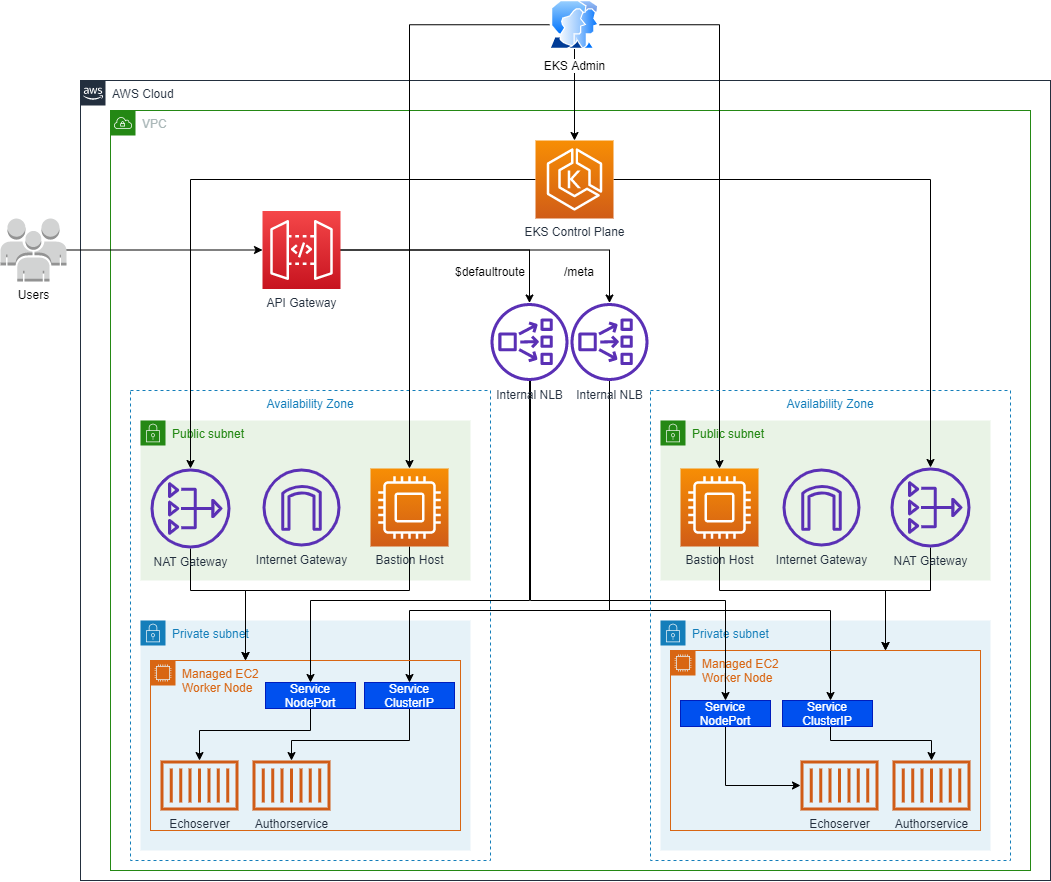
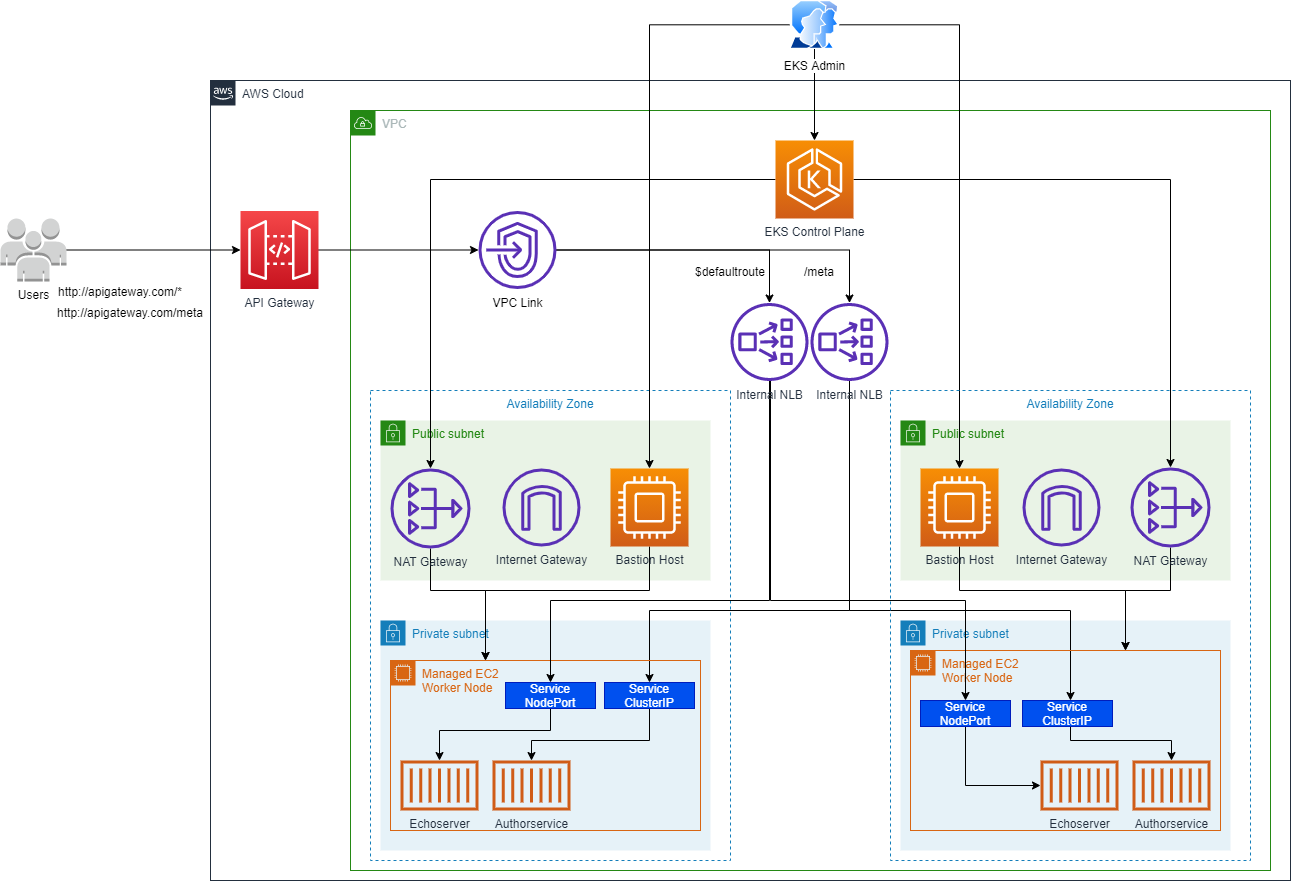
FIT: work complete

diff --git a/README.md b/README.md
@@ -242,7 +242,7 @@ Next the  following command can be run:
 ```sh
 kubectl apply -f vpclink.yml
 aws apigatewayv2 get-vpc-links --region $AGW_AWS_REGION
-export AGW_VPCLINK_SG = aws ec2 describe-security-groups --filter Name=vpc-id,Values=$AGW_VPC_ID Name=tag:Name,Values=VPCLink-SecurityGroup --query 'SecurityGroups[*].[GroupId]' --output text
+export AGW_VPCLINK_SG=$(aws ec2 describe-security-groups --filter Name=vpc-id,Values=$AGW_VPC_ID Name=tag:Name,Values=VPCLink-SecurityGroup --query 'SecurityGroups[*].[GroupId]' --output text)
 ```
 
 The following commands are very helpful in order to debug problems:
@@ -252,6 +252,47 @@ kubectl describe vpclinks.apigatewayv2.services.k8s.aws nlb-internal
 ```
 
 ## 13 - Create API Gateway API
+
+First, we need to run the aws commands in order to get the VPC Link ID and
+the load balancers uri:
+
+* VPC Link ID:
+
+```sh
+kubectl get vpclinks.apigatewayv2.services.k8s.aws nlb-internal -o jsonpath=\"{.status.vpcLinkID}\"
+```
+
+* Load Balancer URI authorservice:
+
+```sh
+aws elbv2 describe-listeners \
+    --load-balancer-arn $(aws elbv2 describe-load-balancers \
+    --region $AGW_AWS_REGION \
+    --query "LoadBalancers[?contains(DNSName, '$(kubectl get service authorservice \
+    -o jsonpath="{.status.loadBalancer.ingress[].hostname}")')].LoadBalancerArn" \
+    --output text) \
+    --region $AGW_AWS_REGION \
+    --query "Listeners[0].ListenerArn" \
+    --output text
+```
+
+* Load Balancer URI echoserver:
+
+```sh
+aws elbv2 describe-listeners \
+    --load-balancer-arn $(aws elbv2 describe-load-balancers \
+    --region $AGW_AWS_REGION \
+    --query "LoadBalancers[?contains(DNSName, '$(kubectl get service echoserver \
+    -o jsonpath="{.status.loadBalancer.ingress[].hostname}")')].LoadBalancerArn" \
+    --output text) \
+    --region $AGW_AWS_REGION \
+    --query "Listeners[0].ListenerArn" \
+    --output text
+```
+
+You can also find those commands at the apigateway/open-api.json file in order to know the correct place to substitute de id's obtained.
+
+After substituting the id's obtained in the preceeding commands, we need to run the apply:
 
 ```sh
 kubectl apply -f apigw-api.yml
@@ -319,19 +360,19 @@ kubectl delete services authorservice
 sleep 10
 aws ec2 delete-security-group --group-id $AGW_VPCLINK_SG --region $AGW_AWS_REGION 
 helm delete aws-load-balancer-controller --namespace kube-system
-helm delete ack-apigatewayv2-controller --namespace kube-system
+helm delete ack-apigatewayv2-controller --namespace ack-system
 for role in $(aws iam list-roles --query "Roles[?contains(RoleName, \
-  'eksctl-eks-ack-apigw-addon-iamserviceaccount')].RoleName" \
+  'eksctl-EksCluster01-addon-iamserviceaccount')].RoleName" \
   --output text)
 do (aws iam detach-role-policy --role-name $role --policy-arn $(aws iam list-attached-role-policies --role-name $role --query 'AttachedPolicies[0].PolicyArn' --output text))
 done
 for role in $(aws iam list-roles --query "Roles[?contains(RoleName, \
-  'eksctl-eks-ack-apigw-addon-iamserviceaccount')].RoleName" \
+  'eksctl-EksCluster01-apigw-addon-iamserviceaccount')].RoleName" \
   --output text)
 do (aws iam delete-role --role-name $role)
 done
 sleep 5
-aws iam delete-policy --policy-arn $(echo $(aws iam list-policies --query 'Policies[?PolicyName==`ACKIAMPolicy`].Arn' --output text))
-aws iam delete-policy --policy-arn $(echo $(aws iam list-policies --query 'Policies[?PolicyName==`AWSLoadBalancerControllerIAMPolicy-APIGWDEMO`].Arn' --output text))
 aws cloudformation delete-stack --stack-name stack-eks-load-balancer-controller
+aws iam delete-policy --policy-arn $(echo $(aws iam list-policies --query 'Policies[?PolicyName==`ACKIAMPolicy`].Arn' --output text))
+aws iam delete-policy --policy-arn $(echo $(aws iam list-policies --query 'Policies[?PolicyName==`AWSLoadBalancerControllerIAMPolicy-APIGWEksCluster01`].Arn' --output text))
 ```
